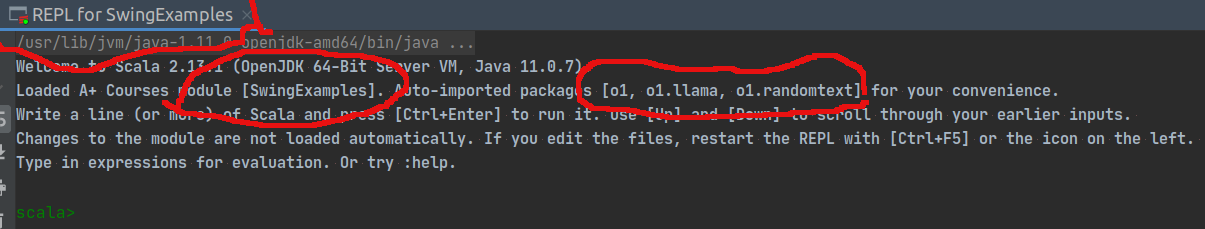
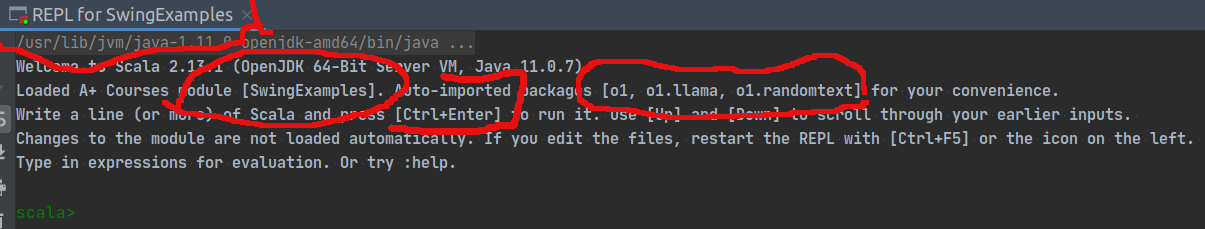
Scala REPL for non-module set-ups starts successfully #259
adjusting the manual testing guide

Changed region(s): [[0.3685, 0.3057, 0.4606, 0.4585], [0.3071, 0.4891, 0.4299, 0.6114]]

diff --git a/TESTING.md b/TESTING.md
@@ -241,115 +241,117 @@ Marked with a github issue label "manual testing."
 **8.5** ASSERTION: Welcome message contains the **SwingExamples** as module name and a list of 
 imported packages: **o1, o1.llama, o1.randomtext**.
 
+**8.6** ASSERTION: Welcome message contains `[Ctrl+Enter]` as one of the available commands.
+
 ![REPL welcome](images/repl-welcome.png)
 
-**8.6** Execute the following command in REPL:
+**8.7** Execute the following command in REPL:
 
     val RTA = RandomTextApp
 
-**8.7** ASSERTION: Results of the command has no errors and looks alike the following image.
+**8.8** ASSERTION: Results of the command has no errors and looks alike the following image.
 
 ![REPL RTA](images/repl-rta.png)
 
-**8.8** Execute the following two commands in REPL:
+**8.9** Execute the following two commands in REPL:
 
     sys.props("user.dir")
     sys.props("java.class.path")
 
-**8.9** ASSERTION: The output of the first statement is the directory of **SwingExamples** module.
+**8.10** ASSERTION: The output of the first statement is the directory of **SwingExamples** module.
 
 ![REPL verify](images/repl-verify.png)
 
-**8.10** ASSERTION: The output of the second statement (classpath) contains **SwingExamples**.
+**8.11** ASSERTION: The output of the second statement (classpath) contains **SwingExamples**.
 
-**8.11** Close the REPL by clicking X next to its tab title.
+**8.12** Close the REPL by clicking X next to its tab title.
 
-**8.12** The window opens asking whether REPL should be terminated.
+**8.13** The window opens asking whether REPL should be terminated.
         Check **Remember, don't ask again** checkbox and click **Terminate**.
 
 #### Part II: Changing parameters
 
-**8.13** Reopen REPL by choosing a folder or a file within **SwingExamples** module.
+**8.14** Reopen REPL by choosing a folder or a file within **SwingExamples** module.
 
-**8.14** Again, uncheck **Don't show this window again** checkbox.
+**8.15** Again, uncheck **Don't show this window again** checkbox.
 
-**8.15** Change **Working directory** to be the directory of **O1Library** module.
+**8.16** Change **Working directory** to be the directory of **O1Library** module.
 - Just replacing **SwingExamples** with **O1Library** in the path does the trick.
 
-**8.16** Change value for **Use classpath and SDK of module** dropdown list to be **O1Library**.
+**8.17** Change value for **Use classpath and SDK of module** dropdown list to be **O1Library**.
 
-**8.17** Click **OK**.
+**8.18** Click **OK**.
 
-**8.18** ASSERTION: A REPL opens with **O1Library** in its title.
+**8.19** ASSERTION: A REPL opens with **O1Library** in its title.
 
-**8.19** In REPL, execute the same two commands as in **8.8**.
+**8.20** In REPL, execute the same two commands as in **8.9**.
 
-**8.20** ASSERTION: The output of the first statement is the directory of **O1Library** module.
+**8.21** ASSERTION: The output of the first statement is the directory of **O1Library** module.
 
-**8.21** ASSERTION: The output of the second statement (classpath) contains **O1Library**
+**8.22** ASSERTION: The output of the second statement (classpath) contains **O1Library**
          (but not other modules, such as **SwingExamples**).
 
-**8.22** Close the REPL.
+**8.23** Close the REPL.
 
 #### Part III: Inconsistent parameters
 
-**8.20** Reopen REPL by choosing a folder or a file within **O1Library** module.
+**8.24** Reopen REPL by choosing a folder or a file within **O1Library** module.
 
-**8.21** This time, leave **Don't show this window again** checkbox checked.
+**8.25** This time, leave **Don't show this window again** checkbox checked.
 
-**8.22** Change **Working directory** to be the directory of **SwingExamples** module.
+**8.26** Change **Working directory** to be the directory of **SwingExamples** module.
 
-**8.23** Click **OK**.
+**8.27** Click **OK**.
 
-**8.24** ASSERTION: A REPL opens with **O1Library** in its title.
+**8.28** ASSERTION: A REPL opens with **O1Library** in its title.
 
-**8.25** In REPL, execute the same two commands as in **8.8**.
+**8.29** In REPL, execute the same two commands as in **8.9**.
 
-**8.26** ASSERTION: The output of the first statement is the directory of **SwingExamples** module.
+**8.30** ASSERTION: The output of the first statement is the directory of **SwingExamples** module.
 
-**8.27** ASSERTION: The output of the second statement (classpath) contains **O1Library**
+**8.31** ASSERTION: The output of the second statement (classpath) contains **O1Library**
          (but not other modules, such as **SwingExamples**).
 
-**8.28** Close the REPL.
+**8.32** Close the REPL.
 
 #### Part IV: Persistence of choice
 
-**8.29** Reopen REPL by choosing a folder or a file within **O1Library** module.
+**8.33** Reopen REPL by choosing a folder or a file within **O1Library** module.
 
-**8.30** ASSERTION: **REPL Configuration** window does not show up.
+**8.34** ASSERTION: **REPL Configuration** window does not show up.
 
-**8.31** ASSERTION: A REPL opens with **O1Library** in its title.
+**8.35** ASSERTION: A REPL opens with **O1Library** in its title.
 
-**8.32** Execute the same two commands as in **8.8**.
+**8.36** Execute the same two commands as in **8.9**.
 
-**8.33** ASSERTION: The output of the first statement is the directory of **O1Library** module.
+**8.37** ASSERTION: The output of the first statement is the directory of **O1Library** module.
 
-**8.34** ASSERTION: The output of the second statement (classpath) contains **O1Library**
+**8.38** ASSERTION: The output of the second statement (classpath) contains **O1Library**
          (but not other modules, such as **SwingExamples**).
 
-**8.35** Close the REPL.
+**8.39** Close the REPL.
 
-**8.36** Restart te IDE.
+**8.40** Restart te IDE.
 
-**8.37** Once the IDE has restarted, open the REPL by choosing any file.
+**8.41** Once the IDE has restarted, open the REPL by choosing any file.
 
-**8.38** ASSERTION: **REPL Configuration** window does not show up.
+**8.42** ASSERTION: **REPL Configuration** window does not show up.
 
-**8.39** ASSERTION: A REPL opens.
+**8.43** ASSERTION: A REPL opens.
 
-**8.40** Close the REPL.
+**8.44** Close the REPL.
 
 #### Part V: Settings reset.
 
-**8.41** From the main menu, choose **A+ > Reset A+ Courses Plugin Settings**.
+**8.45** From the main menu, choose **A+ > Reset A+ Courses Plugin Settings**.
 
-**8.42** Open REPL by choosing any file.
+**8.46** Open REPL by choosing any file.
 
-**8.43** ASSERTION: **REPL Configuration** window shows up.
+**8.47** ASSERTION: **REPL Configuration** window shows up.
 
-**8.44** Close the window by clicking **Cancel**.
+**8.48** Close the window by clicking **Cancel**.
 
-**8.45** ASSERTION: No REPL opens.
+**8.49** ASSERTION: No REPL opens.
 
 ### 9 Removing a module
 
